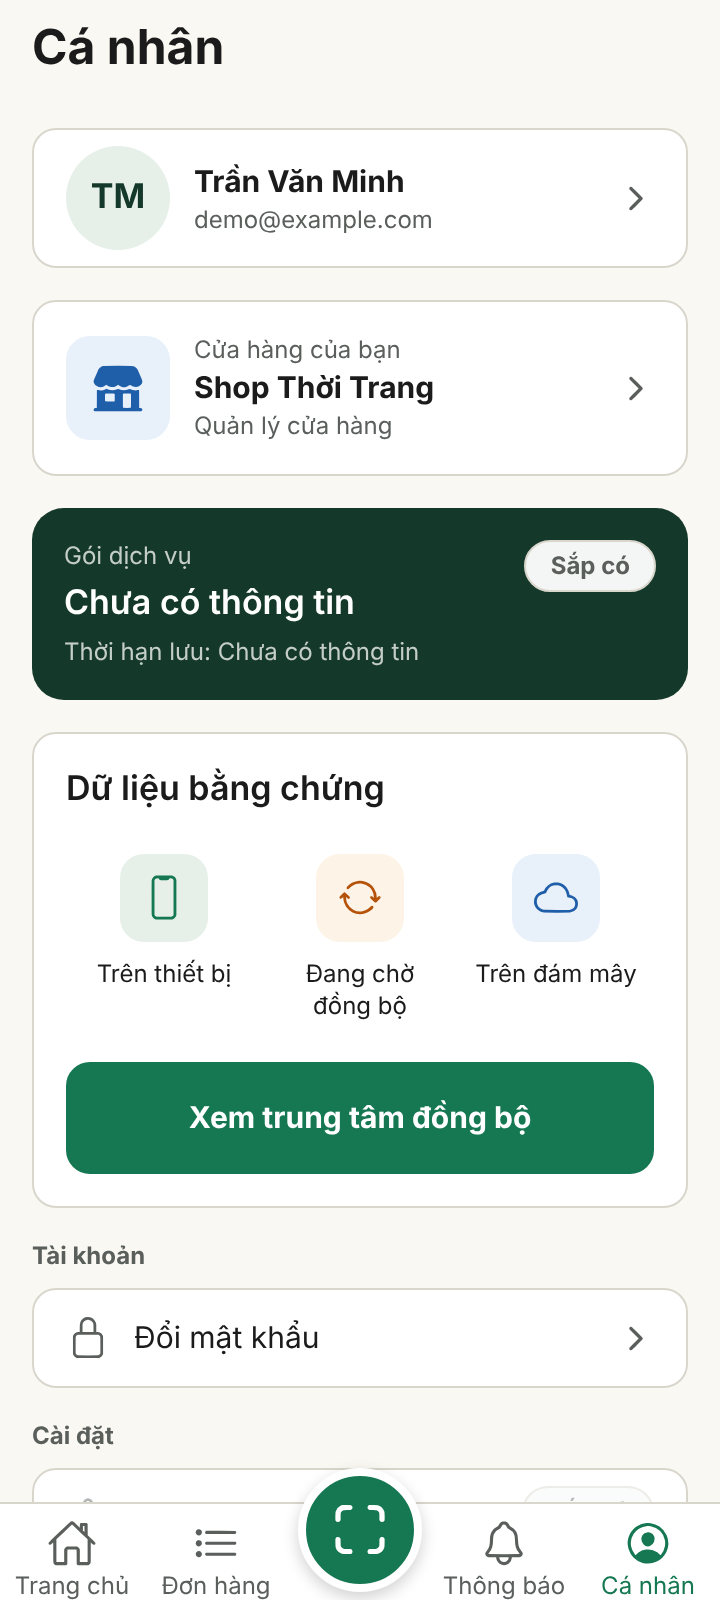
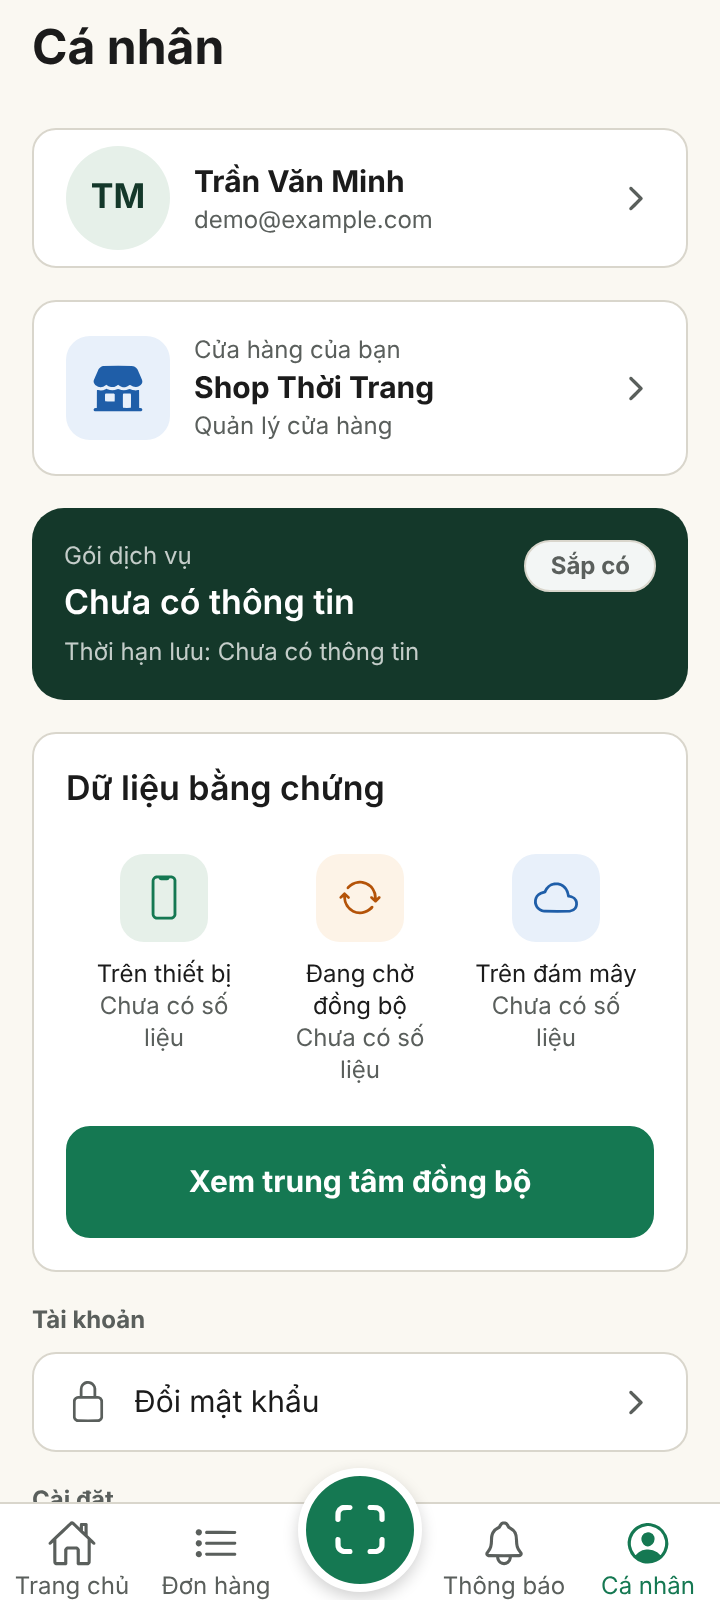
docs(personal): ảnh bản web PR-C (khung 2, 3, 4a-4c), chụp lại pr-b-1a và checklist giống design
Claude-Session: https://claude.ai/code/session_01EqYbDcnm1zXTanGNx6inm6

diff --git a/docs/assets/screens/personal-tab-v3/README.md b/docs/assets/screens/personal-tab-v3/README.md
@@ -49,4 +49,39 @@
 | Trạng thái | đạt | đạt | đạt | đạt | đạt | |
 | Chuỗi chữ | lệch có chủ đích | - | lệch | lệch | lệch | xem mục 6.2 của plan (huy hiệu, gói, câu lỗi, "Hãy" thay "Vui lòng") |
 
-**Ảnh `pr-b-1a-*` chưa chụp lại sau review PR #15** (không có trình duyệt/react-native-web trong môi trường): ba ô "Dữ liệu bằng chứng" nay có thêm dòng "Chưa có số liệu" dưới nhãn; ảnh hiện còn là bản chỉ nhãn. Khung 1b khác ảnh ở trợ năng (mỗi thẻ một phần tử "Đang tải"), hình không đổi.
+Ảnh `pr-b-1a-*` (4 ảnh) đã **chụp lại ở PR-C** với dòng "Chưa có số liệu" dưới nhãn ba ô bằng chứng (cổng giả có họ tên "Trần Văn Minh", cửa hàng "Shop Thời Trang" như board). Khung 1b khác ảnh ở trợ năng (mỗi thẻ một phần tử "Đang tải"), hình không đổi; ảnh 1b-1e chưa chụp lại.
+
+---
+
+# Ảnh đối chiếu PR-C: Sửa họ tên, Đổi mật khẩu, hộp thoại Đăng xuất (khung 2, 3, 4a-4c)
+
+**Lưu ý trung thực:** ảnh render **bản web** (react-native-web trong Chromium) của màn thật trên **cổng giả**, **không phải ảnh chụp trên iOS/Android thật**. Chụp ở 320x568, 360x800, 390x844 (hệ số 2); **chưa chụp ở chữ lớn (font scale)**. Để chụp được các nhánh, bản sao ngoài repo có các thay đổi tạm KHÔNG commit: cổng giả đọc `?method=apple|google|password` (loại đăng nhập, họ tên "Trần Văn Minh", cửa hàng "Shop Thời Trang"), kho bộ nhớ đọc `?recording=1` (đang quay) và `?unsynced=3` (3 tệp chưa đồng bộ; trong app thật số này hôm nay luôn 0 và chưa có phiên đang ghi). Cách chụp như PR-B (export web trên bản sao ngoài repo có `react-native-web@0.21.4`, phục vụ tĩnh, Playwright + Chromium). Font, bàn phím và vòng focus của trình duyệt khác thiết bị thật.
+
+| Ảnh | Nội dung |
+| --- | --- |
+| `pr-c-2-edit-name-{320x568,360x800,390x844}.png` | Khung 2: đã nhập "Trần Văn Minh", Lưu ngay dưới ô |
+| `pr-c-2-edit-name-empty-*.png` | Ô trống (nút Lưu tắt vì chưa khác giá trị đã lưu) |
+| `pr-c-3-password-*.png` | Khung 3: form ban đầu (tài khoản mật khẩu) |
+| `pr-c-3-password-errors-*.png` | Bấm Lưu khi chưa nhập: lỗi tại từng ô, mật khẩu mới 3 ký tự |
+| `pr-c-3-apple-*.png`, `pr-c-3-google-*.png` | Tài khoản Apple/Google: thẻ giải thích THAY form |
+| `pr-c-4a-signout-confirm-*.png` | Khung 4a |
+| `pr-c-4b-signout-recording-*.png` | Khung 4b (đang quay) |
+| `pr-c-4c-signout-unsynced-*.png` | Khung 4c (còn 3 tệp chưa đồng bộ) |
+| `pr-c-board-reference-2-4.png` | Khung 2, 3, 4a, 4b, 4c cắt từ board 07 |
+| `pr-c-compare-board-vs-app-390.png` | Hàng trên: board; hàng dưới: app 390x844, cùng cột = cùng khung (3 là nhánh mật khẩu; thẻ Apple/Google ở ảnh riêng) |
+
+## Checklist "giống design"
+
+| Hạng mục | 2 | 3 | 4a | 4b | 4c | Ghi chú lệch |
+| --- | --- | --- | --- | --- | --- | --- |
+| Bố cục và thứ tự khối | đạt | lệch có chủ đích | đạt | đạt | đạt | khung 3: thẻ Apple/Google thay form (D18, Q-21s) |
+| Thứ bậc chữ | đạt | đạt | đạt | đạt | đạt | |
+| Màu thẻ/nền | đạt | gần (thẻ dùng `brand.soft`, board xanh nhạt hơn) | đạt | đạt | đạt | |
+| Icon | - | đạt (mắt) | gần | gần | gần | icon hộp thoại trong ô tròn nền nhạt (Ionicons gần nghĩa, board là biểu tượng đặc) |
+| Khoảng cách | gần | gần | gần | gần | gần | hộp thoại lề 24dp, board ~12dp (Q-21r) |
+| Nút | đạt (Lưu dưới ô) | đạt | đạt (chính + viền đỏ) | đạt (một nút) | đạt (chính + phụ viền) | phụ 4c viền xanh đậm hơn board |
+| Header | đạt | đạt | - | - | - | tiêu đề lệch trái, mũi tên trái |
+| Thanh tab | ẩn (đạt) | ẩn (đạt) | hiện dưới lớp tối | như 4a | như 4a | board không vẽ thanh tab dưới lớp tối |
+| Trạng thái | đạt | đạt (lỗi tại ô, Apple/Google, tải, lỗi tải) | đạt | đạt | đạt | |
+| Chuỗi chữ | đạt (không có ô email) | lệch: "Tối thiểu 8 ký tự" (không "chữ và số", D29); thẻ nêu đúng Apple hoặc Google | đạt + dòng phụ về dữ liệu trên máy | đạt ("Hãy" thay "Vui lòng") | lệch: nêu số tệp thật và "Hãy đồng bộ xong rồi đăng xuất" | xem mục 6.3 của plan |
+
